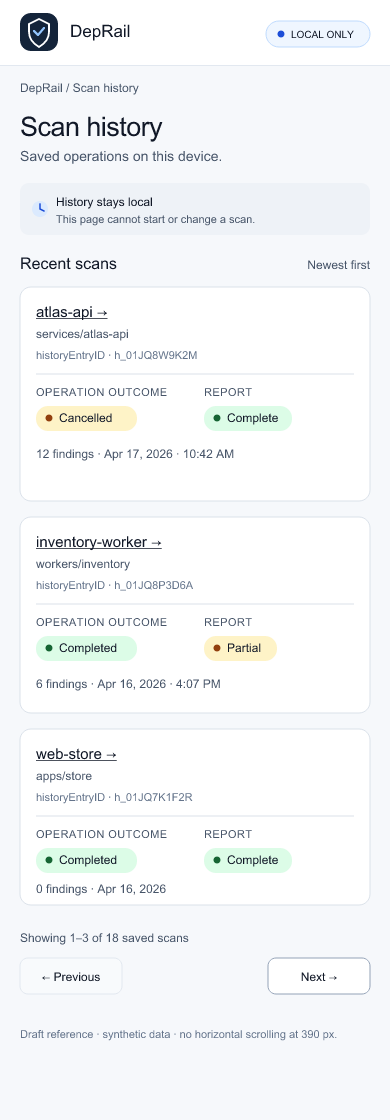
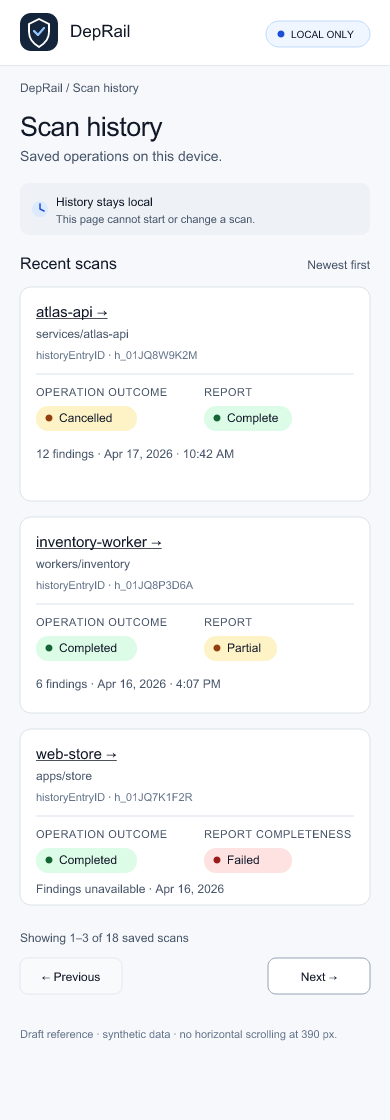
docs(v05-001): refine UX acceptance proposal (#394) (#399)
* docs(v05-001): complete UX acceptance evidence (#394)

* docs(v05-001): link UX follow-up PR (#394)

diff --git a/docs/04-execution/deprail-v0.5.0-execution-package/UX-DESIGN.md b/docs/04-execution/deprail-v0.5.0-execution-package/UX-DESIGN.md
@@ -30,10 +30,11 @@ PNG previews and editable SVG sources:
 
 These are proposal artifacts, not accepted schemas or implementation authorization. All names, IDs, counts, timestamps, and finding examples are synthetic. Routes, exact response fields, ordering, page size, pagination behavior, finding-detail depth, and component dependencies remain open for the API/UX review.
 
-- Proposed client navigation: `/history` and `/history/{historyEntryID}`; the history entry remains addressable, and both the visible back link and browser Back return to the list. This does not define an API route.
-- Desktop history remains a flat scan-entry table with repository context in the first column; narrow layouts use stacked scan cards. Each row/card is one link to `/history/{historyEntryID}`. The repository label and a visible focus treatment expose the detail navigation; the visible back link and browser Back return to history.
+- Proposed client navigation: `/history` and `/history/{historyEntryID}`; both routes are directly addressable. This does not define an API route.
+- Desktop history remains a flat scan-entry table with repository context in the first column; narrow layouts use stacked scan cards. Each row/card is one link to `/history/{historyEntryID}`. The visible back link and browser Back return to history.
+- Browser Forward restores the selected detail route if the entry remains available. A direct or stale ID that is no longer present shows the not-found state with a safe history link. Restoring page, cursor, or filter selection is deferred until the API pagination and URL-state contracts are approved; no server route or persistence behavior is implied.
 - A project-level expandable table was considered but deferred for v0.5. It could help users browse repeated scans per repository, but FR-502 and the proposed `GET /api/v1/scans` page scan entries; no stable project-group identity or bounded group/child-pagination contract is approved. Grouping risks splitting a project’s scans across pages and adds nested-table keyboard/screen-reader complexity. Revisit only with user evidence and an explicit data/API contract update.
-- The detail proposal places operation outcome before report completeness and keeps workspaces, findings, provenance, and diagnostics distinct. The cancelled/complete example is intentionally adversarial: `complete` describes the returned report, not successful completion of the operation.
+- The detail proposal places operation outcome before report completeness and keeps workspaces, findings, provenance, and diagnostics distinct. The cancelled/complete example is intentionally adversarial: `complete` describes the returned report, not successful completion of the operation. The desktop and narrow history samples also show a completed operation with a failed report; findings are unavailable rather than presented as zero.
 - The state board distinguishes loading, empty history, store unavailable, incompatible/corrupt storage, missing or mismatched raw artifacts, and stale selection. Retry is shown only for a safe read; no destructive recovery control is proposed.
 - The mockups use system UI fonts and local vector shapes only; no remote fonts, icons, or images are required. The shadcn/ui direction remains a visual reference, not a dependency or component-source decision.
 - Repository-controlled strings must render as inert text. Review cases include a label such as `<script>alert(1)</script>` and a long path; text wraps or truncates without changing meaning or causing horizontal page overflow.
@@ -45,9 +46,9 @@ Exact color tokens and dependency/build decisions require owner and independent 
 
 1. **Scan History** — primary route; paginated saved scans, status and summary filters only if justified by user research.
 2. **Scan Detail** — selected scan metadata, completeness/diagnostics, finding summary, workspace list, findings, and provenance.
-3. **About/Local data help** — data location and operational guidance only if the owner accepts the UX scope; no account/team settings.
+3. **About/Local data help — recommendation, pending owner decision:** include a static, read-only view explaining local-only operation and pointing to approved data-location guidance. Do not expose absolute host paths or offer reset, delete, or export controls.
 
-Navigation must include a persistent product identity and a clear return-to-history path. Do not show controls for unsupported team, publish, exception-management, agent-write, or remediation capabilities.
+Navigation includes a persistent product identity and a clear return-to-history path. Do not show controls for unsupported team, publish, exception-management, agent-write, or remediation capabilities. The owner must accept or exclude About/Local data help before UX acceptance; if excluded, retain a concise local-only note on history. Exact data location remains deferred until its storage contract is approved.
 
 ## 4. Primary workflows
 
@@ -89,34 +90,62 @@ Navigation must include a persistent product identity and a clear return-to-hist
 
 Text labels and aria status announcements convey state. Color alone is never sufficient.
 
-## 6. Component mapping (illustrative)
+### API response-to-state map (proposal)
 
-Final components follow the design-system decision. Candidate primitives include: page header, breadcrumbs/back link, status badge, summary card, table/list, pagination, filter control, tabs only if they improve scan detail comprehension, alert/banner, empty state, skeleton, tooltip, and a finding detail panel. Prefer semantic HTML/table patterns for tabular data. Dialogs are not the default for primary scan detail navigation because they impair deep linking and keyboard/screen-reader orientation.
+The endpoint names and error codes below are candidates from `API-DESIGN.md` and `requirements/ERROR-MODEL.md`. HTTP status mapping and wire schemas remain unapproved; this map defines the intended user-visible distinction, not a frozen transport contract.
 
-Use shadcn/ui-style composition without adopting a component just to match a screenshot. Avoid heavy charting for v0.5 unless reviewed user research establishes a specific need; trend analytics are not part of the current proposal.
+| Response or condition | Required UI state and behavior |
+| --- | --- |
+| Initial `GET /api/v1/scans` request | Loading skeleton with an announced loading label; no invented progress percentage. |
+| Successful history page with no entries | Empty history only after a successful response; never use this state for a request or storage failure. |
+| Successful history page with entries | Render each unique history entry. Show operation outcome separately from optional report completeness. For `completed` + `failed`, label the report `Failed` and do not show zero findings as a clean result. |
+| `HISTORY_UNAVAILABLE` | Store-unavailable state; explain that history could not be read and offer only safe read retry. |
+| `HISTORY_SCHEMA_UNSUPPORTED`, `HISTORY_MIGRATION_FAILED`, or `HISTORY_CORRUPT` | Compatibility/recovery state; preserve existing data and do not suggest reset or deletion. |
+| `HISTORY_ENTRY_NOT_FOUND` | Stale-selection state with a return-to-history link; do not substitute another entry. |
+| `HISTORY_ARTIFACT_MISSING` or `HISTORY_ARTIFACT_DIGEST_MISMATCH` | Keep trustworthy metadata if permitted, disclose unavailable/unverified evidence, and never substitute an empty artifact or report. |
+| `API_REQUEST_INVALID`, `API_REQUEST_TOO_LARGE`, `API_VERSION_UNSUPPORTED`, `API_METHOD_UNSUPPORTED`, or `API_ORIGIN_REJECTED` | Explicit safe request/compatibility error; never render empty history. |
+| `API_TIMEOUT` or `API_CANCELLED` on a read | End the loading state with a request-level message. Do not rewrite the saved operation outcome or report completeness. |
+
+The screen presents `operationOutcome` (`completed|failed|cancelled`) and, when a report exists, `reportStatus` (`complete|partial|failed`) as independent values. Candidate codes do not replace the approved error contract, and an error response is never treated as a successful empty page.
+
+## 6. Component and implementation direction (proposal; not approved)
+
+The visual direction is shadcn/ui-inspired, not a commitment to install shadcn/ui or copy generated components. The conservative design baseline is a small project-owned layer built from semantic HTML and CSS; no new runtime dependency is selected or authorized here.
+
+| Decision area | Proposed direction | Approval/build boundary |
+| --- | --- | --- |
+| Primitives | Native links, buttons, headings, lists, semantic tables, status text, alerts, skeletons, and pagination; use links for history-to-detail navigation. Avoid dialogs for primary detail navigation. | Verify keyboard and assistive-technology behavior on the actual browser surface. |
+| Component ownership | Hand-authored components and styles belong to DepRail and are reviewed in the repository. | If shadcn/ui source or another library is later preferred, record copied-source ownership, package/version, license, maintenance, and bundle impact before adoption. |
+| Dependencies | No third-party component, icon, chart, or font dependency is selected by this UX proposal. | Any runtime package remains subject to owner and independent review; this document does not approve installation. |
+| Tokens | Project-owned CSS custom properties for background, foreground, border, muted, primary, destructive, warning, success, and focus states. | Exact palette, spacing, type scale, and contrast values remain design-review decisions. |
+| Icons and fonts | System font stack and local/inline SVG icons; no remote fonts, images, CDN, or analytics. | Keep assets local and review any future dependency or license change. |
+| Embedded build | React, TypeScript, and Vite static output embedded in the Go application, consistent with the architecture baseline. | `web/` is the source ownership boundary; package manager, pinned versions, embed path/tool, and bundle/startup budget remain execution-package decisions. |
+
+The proposal preserves the requested shadcn/ui visual characteristics without freezing a library or implementation. Owner and independent UX/security review must approve the actual design-system, dependency, and build decisions before runtime work.
 
 ## 7. Accessibility and responsive acceptance
 
-- All navigation, filters, pagination, and finding actions are reachable by keyboard and have a logical focus order.
-- Visible focus indicator persists in all themes and states; focus is restored predictably after navigation/close.
-- Headings and landmarks express the page structure; controls have programmatic labels; tables identify column headers.
-- Dynamic loading/error/status updates are announced without repeatedly interrupting assistive technology.
-- Text, icons, charts, and focus states meet the agreed contrast threshold; status is not color-only.
-- At 320 CSS px width, essential status, identity, finding information, and navigation remain available without page-level horizontal scrolling; wide tables use an intentional responsive pattern.
-- Reduced-motion preferences are respected; animation is nonessential.
-- Test screen-reader names/status in a supported browser/OS combination and document scope and remaining gaps.
+- All navigation, filters, pagination, and finding actions are keyboard reachable with a logical focus order; visible focus remains clear in every state.
+- The history-to-detail flow works with keyboard only: focus a row/card link, open detail, use the visible return link, then browser Back and Forward. Focus returns to a predictable location.
+- Headings and landmarks express page structure; controls have programmatic labels; tables identify column headers; links have distinguishable names.
+- Loading, errors, cancellation, and status changes are announced without repeatedly interrupting assistive technology. Outcome and report completeness are both conveyed in text.
+- Proposed contrast target is WCAG 2.2 AA: at least 4.5:1 for normal text, 3:1 for large text, and 3:1 for meaningful UI/focus indicators. Verify all interactive and status states; this target remains subject to design review.
+- At 320 CSS px width and 200% zoom, essential status, identity, findings information, and navigation remain available without page-level horizontal scrolling; wide tables use an intentional responsive pattern.
+- Reduced-motion preferences are respected; movement is nonessential and disabled or simplified when `prefers-reduced-motion` is enabled.
+- Repository-controlled strings remain inert text. Review markup-like labels such as `<script>alert(1)</script>`, long paths, Unicode, and direction-control characters; they must not become executable markup, navigation targets, or misleading visual labels.
+- Select and document the supported browser/OS and screen-reader combination in the compatibility/test plan. Record the environment and observed gaps; a static mockup is not accessibility verification.
+
+Color alone never communicates status. PNG/SVG inspection can verify layout and represented states only; keyboard, screen-reader, contrast, reduced-motion, and hostile-text acceptance require the actual browser surface before implementation is accepted.
 
 ## 8. UX evidence package required before implementation
 
-The design reviewer must attach or link:
+The design package links the draft history, detail, empty/loading/recovery wireframes and editable sources above. Before UX acceptance, the owner and design reviewer must review and record:
 
-- User/workflow assumptions and scope decisions.
-- Low- or high-fidelity page wireframes/prototype for history, detail, empty and error states; no code scaffold is needed.
-- Route/navigation and browser back/forward behavior.
-- Interaction/state inventory mapped to API response and failure cases.
-- Token/component proposal with shadcn/ui adoption/dependency and code ownership decision.
-- Responsive breakpoints and keyboard/accessibility review.
-- Representative untrusted-data rendering examples.
-- Owner and independent reviewer acceptance, separately recorded.
+- User/workflow assumptions and scope decisions, including the About/Local data help decision.
+- History/detail navigation, direct-route behavior, and browser back/forward behavior, including stale-selection recovery.
+- The response-to-state map from API success, candidate errors, and report/operation values to visible UI states.
+- The component/dependency, code ownership, icon/font, token, and embedded-build proposal, with every unapproved choice clearly marked.
+- Responsive breakpoints, keyboard flow, focus behavior, contrast target, screen-reader names/status, reduced-motion behavior, and hostile-data cases.
+- Owner and independent reviewer acceptance separately; neither is implied by a merged design PR.
 
-These linked PNG/SVG mockups are first-pass design drafts; they do not complete the UX evidence package until the response/state map, component and dependency decisions, accessibility review, owner acceptance, and independent review are recorded.
+The SVG/PNG examples are synthetic proposal artifacts. They do not approve an API, dependency, storage behavior, visual system, or runtime implementation, and they do not replace browser accessibility evidence.

diff --git a/docs/04-execution/deprail-v0.5.0-execution-package/issues/V05-001-ux-acceptance.md b/docs/04-execution/deprail-v0.5.0-execution-package/issues/V05-001-ux-acceptance.md
@@ -3,7 +3,7 @@
 
 - Epic: [EPIC-001 / #390](https://github.com/geoffrey-xiao/deprail/issues/390)
 - Target: `v0.5.0`
-- Status: Review; draft mockups are in [PR #398](https://github.com/geoffrey-xiao/deprail/pull/398) and UX acceptance remains pending
+- Status: Review; initial mockups merged via [PR #398](https://github.com/geoffrey-xiao/deprail/pull/398); follow-up UX proposals are in [PR #399](https://github.com/geoffrey-xiao/deprail/pull/399); owner acceptance and independent review remain pending.
 - Type: docs
 - Area: docs
 - Priority: P0
